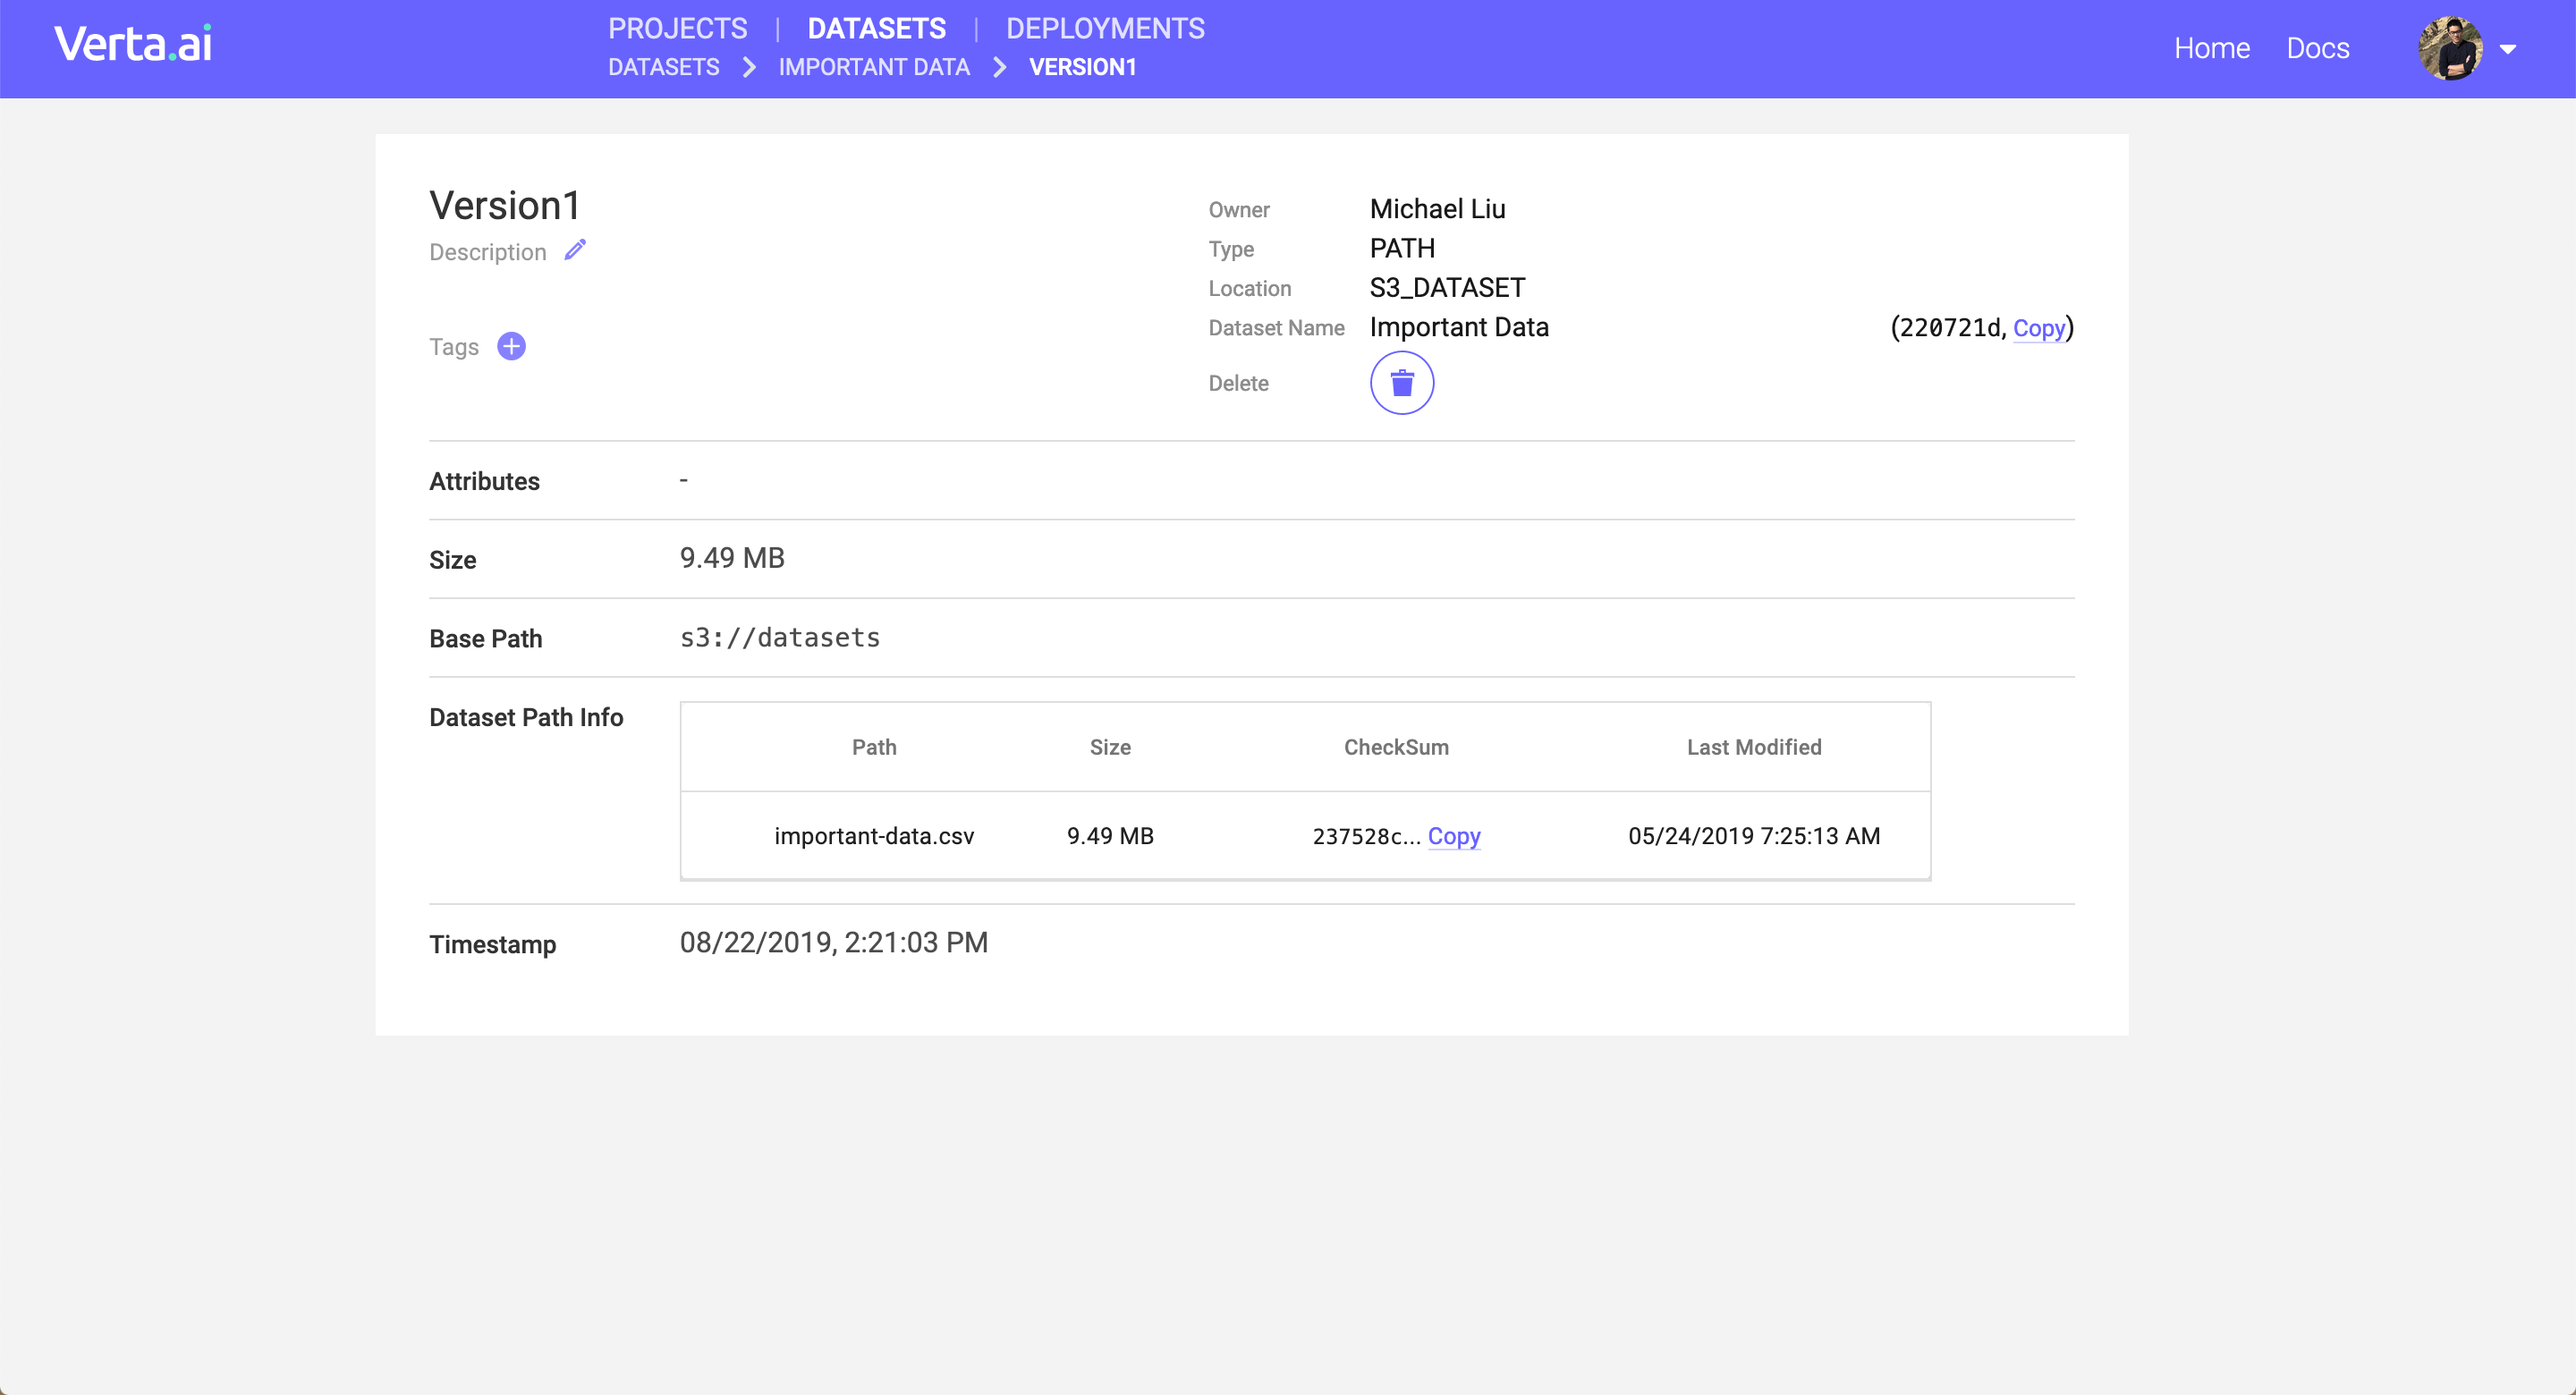
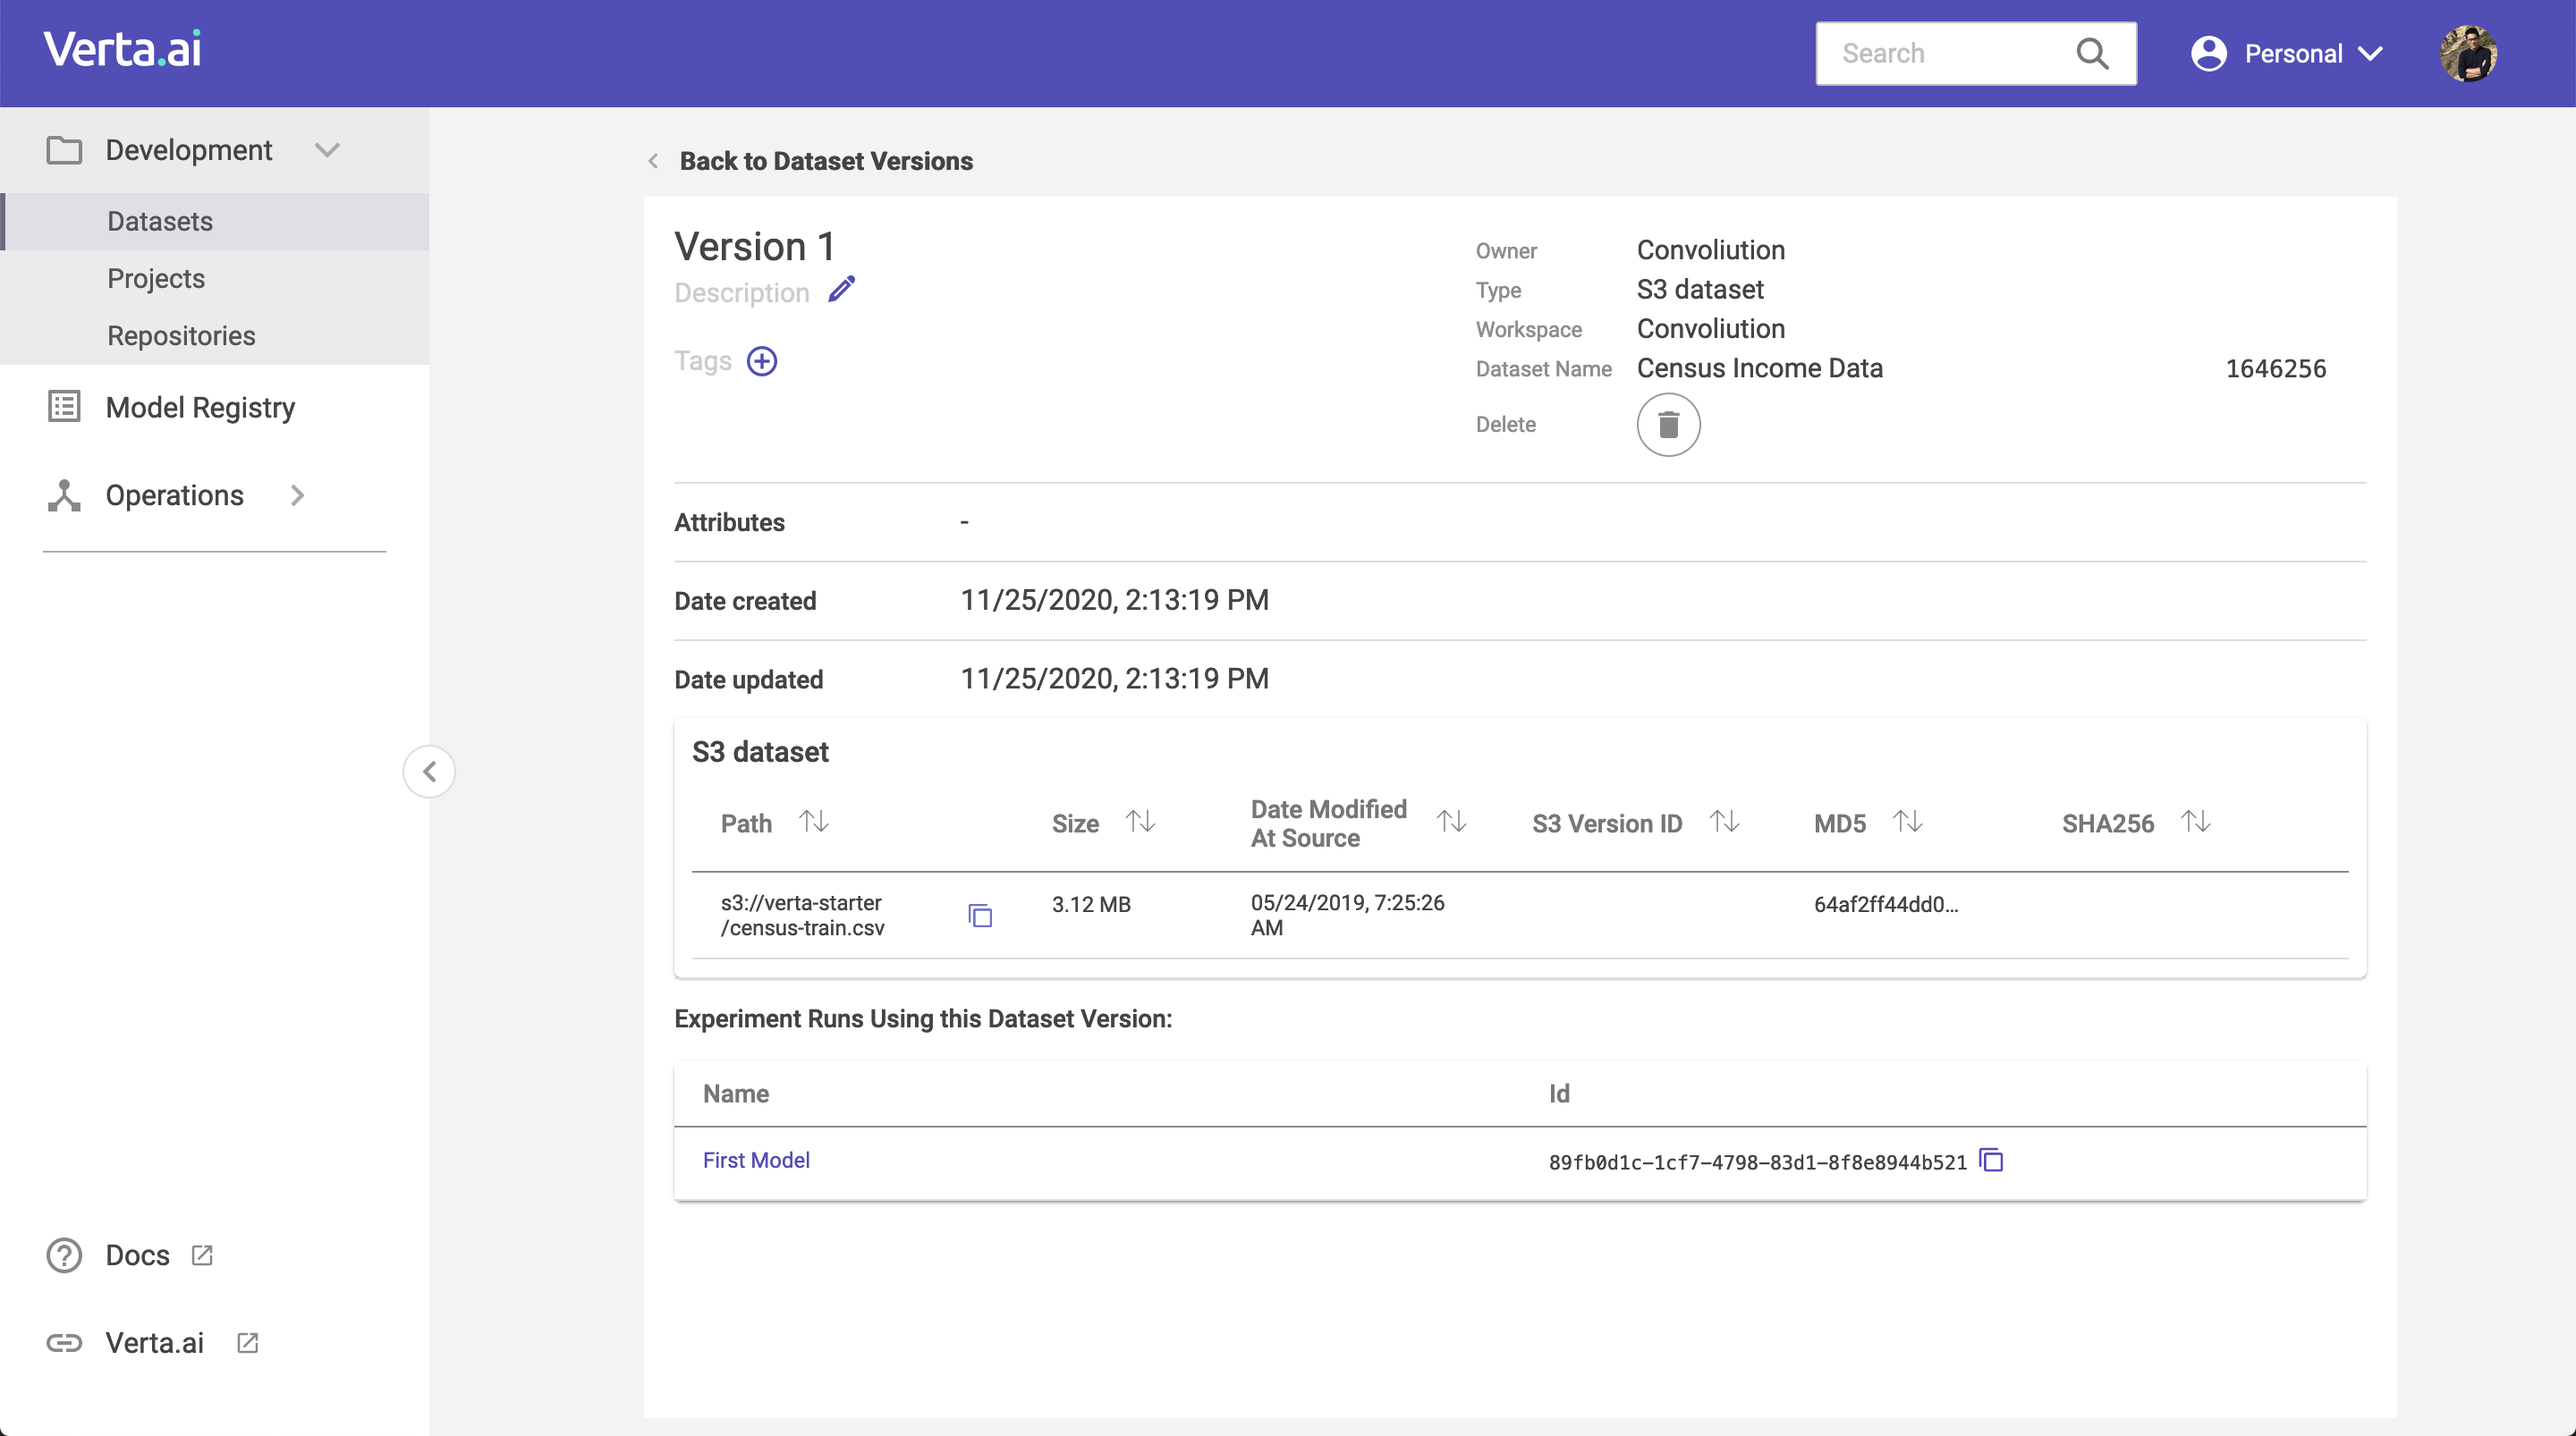
Update dataset versioning tutorial

diff --git a/client/verta/verta/_dataset_versioning/dataset.py b/client/verta/verta/_dataset_versioning/dataset.py
@@ -365,7 +365,7 @@ class Dataset(entity._ModelDBEntity):
         .. code-block:: python
 
             from verta.dataset import Path
-            version = dataset.create_version(Path(["data.csv"]))
+            version = dataset.create_version(Path("data.csv"))
 
         """
         return DatasetVersion._create(

diff --git a/client/verta/docs/tutorials/dataset.rst b/client/verta/docs/tutorials/dataset.rst
@@ -59,25 +59,24 @@ Now, in Python, we'll instantiate the :class:`~verta.client.Client`:
 .. code-block:: python
 
     from verta import Client
-    client = Client(host, email, dev_key)
+    client = Client(host, email=email, dev_key=dev_key)
     # connection successfully established
 
-The client can be used to create an :class:`~verta._dataset.S3Dataset`:
+The client can be used to create an :class:`~verta._dataset_versioning.dataset.Dataset`:
 
 .. code-block:: python
 
-    dataset = client.set_dataset(name="Important Data",
-                                 type="s3")
+    dataset = client.create_dataset(name="Census Income Data")
 
 A *Dataset* is a collection of related *DatasetVersion*\ s, and we'll need to create an
 :class:`~verta._dataset.S3DatasetVersion` to be logged:
 
 .. code-block:: python
 
-    dataset_version = dataset.create_version(bucket_name="datasets",
-                                             key="important-data.csv")
+    from verta.dataset import S3
+    dataset_version = dataset.create_version(S3("s3://verta-starter/census-train.csv"))
 
-Note here that ``key`` is optional; if omitted, we would instead be tracking the entire bucket.
+If we wished to track the entire bucket, we could pass in ``"s3://verta-starter"`` instead.
 
 As we track our data science workflow, we can log this dataset version:
 
